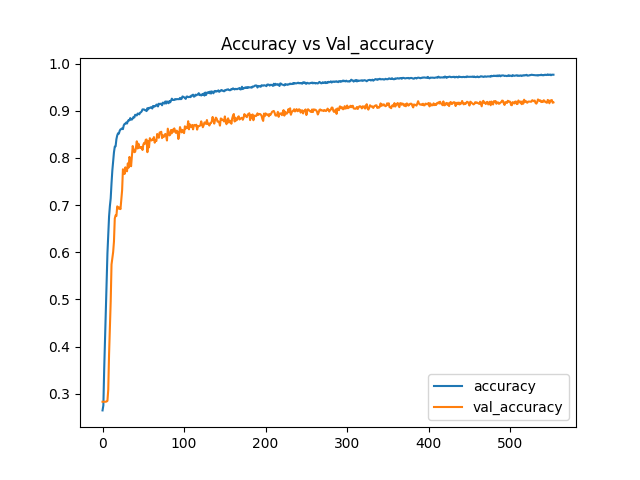
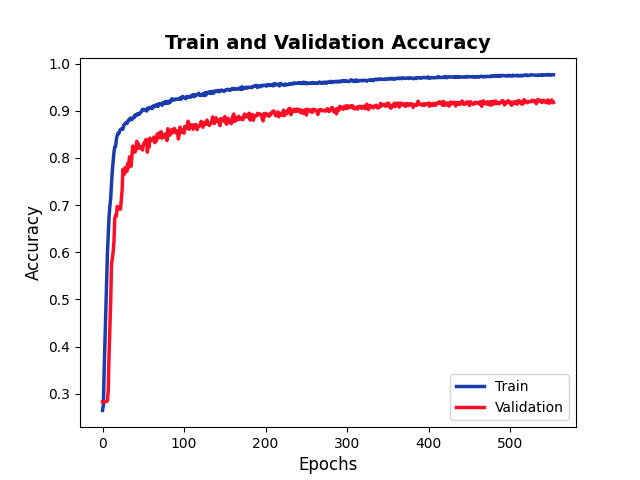
custom images article

diff --git a/complement_functions.py b/complement_functions.py
@@ -176,9 +176,16 @@ class GetHistory():
     def accuracy_vs_val_accuracy(self):
         fig = plt.figure()
         ax = fig.add_subplot(111)
-        ax.plot(self.df.index, self.df['accuracy'], label='accuracy')
-        ax.plot(self.df.index, self.df['val_accuracy'], label='val_accuracy')
-        ax.set_title('Accuracy vs Val_accuracy')
+        ax.plot(self.df.index, self.df['accuracy'], label='Train')
+        ax.plot(self.df.index, self.df['val_accuracy'], label='Validation')
+        ax.set_title('Train and Validation Accuracy',
+                     fontdict={'fontsize': 14, 'fontweight': 'bold'})
+        ax.set_xlabel('Epochs', fontdict={'fontsize': 12})
+        ax.set_ylabel('Accuracy', fontdict={'fontsize': 12})
+        colors = ['#1a3cad', '#ff0e26']
+        for i, line in enumerate(ax.get_lines()):
+            line.set_color(colors[i])
+            line.set_linewidth(2.5)
         ax.legend()
         plt.show()
         return fig
@@ -186,9 +193,16 @@ class GetHistory():
     def loss_vs_val_loss(self):
         fig = plt.figure()
         ax = fig.add_subplot(111)
-        ax.plot(self.df.index, self.df['loss'], label='loss')
-        ax.plot(self.df.index, self.df['val_loss'], label='val_loss')
-        ax.set_title('Loss vs Val_loss')
+        ax.plot(self.df.index, self.df['loss'], label='Train')
+        ax.plot(self.df.index, self.df['val_loss'], label='Validation')
+        ax.set_title('Train and Validation Loss',
+                     fontdict={'fontsize': 14, 'fontweight': 'bold'})
+        ax.set_xlabel('Epochs', fontdict={'fontsize': 12})
+        ax.set_ylabel('Loss', fontdict={'fontsize': 12})
+        colors = ['#1a3cad', '#ff0e26']
+        for i, line in enumerate(ax.get_lines()):
+            line.set_color(colors[i])
+            line.set_linewidth(2.5)
         ax.legend()
         plt.show()
         return fig

diff --git a/output_article.py b/output_article.py
@@ -60,10 +60,14 @@ class EvaluateModel:
             elif self.posprocessing == False:
                 output = binario[0]
                 final_token = ''
-            plt.imshow(output, interpolation='nearest')
-            plt.savefig("output_midia/{}_{}{}.png".format(re.search(r'[\\/]([\w-]+)\.jpg', path).group(1),
+            # cv2.imshow(output, interpolation='nearest')
+            cv2.imwrite("output_midia/{}_{}{}.png".format(re.search(r'[\\/]([\w-]+)\.jpg', path).group(1),
                                                           self.MODEL_NAME,
-                                                          final_token))
+                                                          final_token), output*255)
+            # plt.imshow(output, interpolation='nearest')
+            # plt.savefig("output_midia/{}_{}{}.png".format(re.search(r'[\\/]([\w-]+)\.jpg', path).group(1),
+            #                                               self.MODEL_NAME,
+            #                                               final_token))
 
     def get_performance(self):
         ssim = []
@@ -118,11 +122,13 @@ class EvaluateModel:
 if __name__ == "__main__":
     print('inicio')
     FOLDER = 'preprocessed/TEST_IMAGES'
+    # FILES = ['133_cvc.jpg']
+
     FILES = ['133_cvc.jpg','419_cvc.jpg','480_cvc.jpg','cju1cfhyg48bb0799cl5pr2jh_kev.jpg']
     MODEL_NAME = 'UNET_no_preprocess_with_crop_v3'
     evaluatemodel = EvaluateModel(FOLDER, FILES, MODEL_NAME,
-                                  posprocessing=True)
-    # evaluatemodel.save_history()
+                                  posprocessing=False)
+    evaluatemodel.save_history()
     # evaluatemodel.save_masks()
-    evaluatemodel.get_performance()
+    # evaluatemodel.get_performance()
     print('fim')
